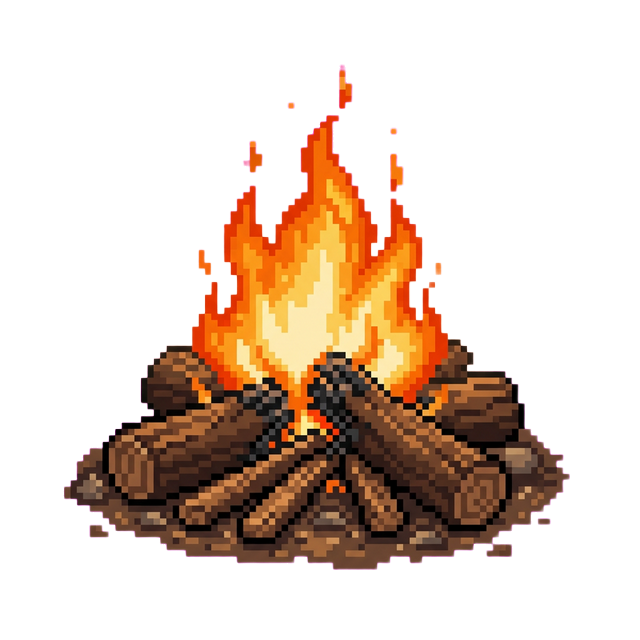
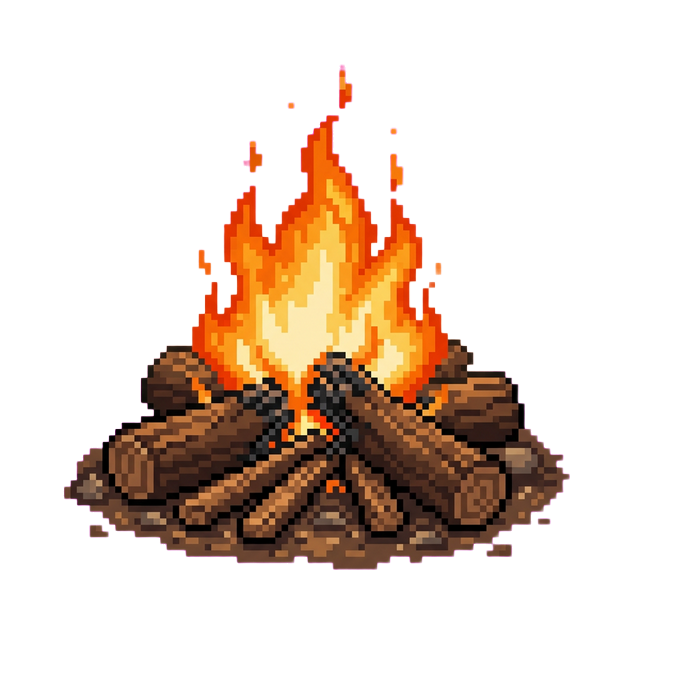
edit

Changed region(s): [[0.0938, 0.0938, 0.9062, 0.9062]]

diff --git a/icefishing/npcs.js b/icefishing/npcs.js
@@ -47,38 +47,43 @@ const NPCs = {
 
                 const distToPlayer = Math.abs(npc.x - Player.x);
 
-                // Check light avoidance unless blood moon or aggroed
-                let avoidsLight = !isBloodMoon && !npc.aggro;
                 let lightDir = 0;
+                let nearestLight = null;
+                let minLightDist = 300; // Light radius to avoid
 
-                if (avoidsLight) {
-                    // Find nearest light (fire or lit torch)
-                    let nearestLight = null;
-                    let minLightDist = 300; // Light radius to avoid
+                for (const fire of World.campfires) {
+                    if (!fire.lit) continue;
 
-                    for (const fire of World.campfires) {
-                        if (fire.lit && Math.abs(fire.x - npc.x) < minLightDist) {
-                            nearestLight = fire;
-                            minLightDist = Math.abs(fire.x - npc.x);
+                    let avoidThis = !npc.aggro && !isBloodMoon; // Normal behavior
+
+                    // Blue campfire overrides blood moon & aggro
+                    if (fire.isBlue && !npc.immuneToBlue) {
+                        avoidThis = true;
+                    }
+
+                    if (avoidThis && Math.abs(fire.x - npc.x) < minLightDist) {
+                        nearestLight = fire;
+                        minLightDist = Math.abs(fire.x - npc.x);
+                    }
+                }
+
+                if (World.torches) {
+                    for (const torch of World.torches) {
+                        let avoidThis = !npc.aggro && !isBloodMoon;
+                        if (torch.lit && avoidThis && Math.abs(torch.x - npc.x) < minLightDist) {
+                            nearestLight = torch;
+                            minLightDist = Math.abs(torch.x - npc.x);
                         }
                     }
-                    if (World.torches) {
-                        for (const torch of World.torches) {
-                            if (torch.lit && Math.abs(torch.x - npc.x) < minLightDist) {
-                                nearestLight = torch;
-                                minLightDist = Math.abs(torch.x - npc.x);
-                            }
-                        }
-                    }
+                }
 
-                    if (nearestLight) {
-                        lightDir = npc.x > nearestLight.x ? 1 : -1;
-                    }
+                if (nearestLight) {
+                    lightDir = npc.x > nearestLight.x ? 1 : -1;
                 }
 
                 let desiredVx = npc.vx;
 
-                if (avoidsLight && lightDir !== 0) {
+                if (lightDir !== 0) {
                     // Run away from light
                     desiredVx = npc.speed * lightDir;
                 } else if (distToPlayer < 800) { // Chase player if in range
@@ -148,7 +153,7 @@ const NPCs = {
 
                 let desiredVx = 0;
                 if (targetX !== null) {
-                    desiredVx = npc.x < targetX ? npc.speed : -npc.speed;
+                    desiredVx = npc.x < targetX ? npc.speed * 1.2 : -npc.speed * 1.2;
                 }
 
                 if (desiredVx !== 0) {
@@ -260,6 +265,7 @@ const NPCs = {
             facing: 1,
             wanderTimer: 0,
             attackTimer: 0,
+            immuneToBlue: Math.random() < 0.10 + 0.01 * Survival.dayCount, // 10% chance to ignore blue campfire, increase by 1% every day
             aggro: false
         });
     },
@@ -274,7 +280,7 @@ const NPCs = {
             y: World.getSurfaceY(x),
             vx: 0,
             vy: 0,
-            speed: 100, // Reduced speed
+            speed: 110, // Slightly faster than player with slope penalties
             hp: 80, // Heavy
             maxHp: 80,
             facing: 1,

diff --git a/icefishing/crafting.js b/icefishing/crafting.js
@@ -21,10 +21,31 @@ const Crafting = {
                     Game.showMessage("Can't build campfire here!", 1.5);
                     return false;
                 }
-                const fire = World.addCampfire(playerX);
+                const fire = World.addCampfire(playerX, false);
                 if (fire) {
                     fire.lit = false;
                     Game.showMessage("Built Campfire! Light it with Flint & Steel.", 2);
+                    return true;
+                }
+                return false;
+            }
+        },
+        {
+            id: 'campfire_blue',
+            name: 'Blue Campfire',
+            description: 'Unlit. Repels zombies on Blood Moons.',
+            cost: { firewood: 6 },
+            icon: 'campfire_blue_off',
+            onBuild: (playerX) => {
+                const col = World.getColumnAt(playerX);
+                if (!col || col.type === 'water') {
+                    Game.showMessage("Can't build blue campfire here!", 1.5);
+                    return false;
+                }
+                const fire = World.addCampfire(playerX, true); // true = isBlue
+                if (fire) {
+                    fire.lit = false;
+                    Game.showMessage("Built Blue Campfire! Light it with Flint & Steel.", 2);
                     return true;
                 }
                 return false;
@@ -64,11 +85,34 @@ const Crafting = {
                     Game.showMessage("Can't build campfire here!", 1.5);
                     return false;
                 }
-                const fire = World.addCampfire(playerX);
+                const fire = World.addCampfire(playerX, false);
                 if (fire) {
                     fire.lit = true;
                     Inventory.damageItemById('flint_steel', 1);
                     Game.showMessage("Built a Lit Campfire!", 2);
+                    return true;
+                }
+                return false;
+            }
+        },
+        {
+            id: 'campfire_blue_lit',
+            name: 'Lit Blue Campfire',
+            description: 'Use Flint & Steel.',
+            cost: { firewood: 6 },
+            requiresItem: 'flint_steel',
+            icon: 'campfire_blue_on',
+            onBuild: (playerX) => {
+                const col = World.getColumnAt(playerX);
+                if (!col || col.type === 'water') {
+                    Game.showMessage("Can't build blue campfire here!", 1.5);
+                    return false;
+                }
+                const fire = World.addCampfire(playerX, true); // true = isBlue
+                if (fire) {
+                    fire.lit = true;
+                    Inventory.damageItemById('flint_steel', 1);
+                    Game.showMessage("Built a Lit Blue Campfire!", 2);
                     return true;
                 }
                 return false;

diff --git a/icefishing/world.js b/icefishing/world.js
@@ -101,7 +101,7 @@ const World = {
                         y: surfaceY,
                         vx: 0,
                         vy: 0,
-                        speed: 100,
+                        speed: 110,
                         hp: 80,
                         maxHp: 80,
                         facing: 1,
@@ -240,11 +240,11 @@ const World = {
         return false;
     },
 
-    addCampfire(worldX) {
-        const col = this.getColumnAt(worldX);
+    addCampfire(playerX, isBlue = false) {
+        const col = this.getColumnAt(playerX);
         if (!col || col.type === 'water') return false;
         const surfaceY = (col.type === 'ice') ? 0 : col.surfaceY;
-        const fire = { x: worldX, surfaceY, fuel: 100, lit: false };
+        const fire = { x: playerX, surfaceY, fuel: 50, lit: false, permanent: false, isBlue: isBlue };
         this.campfires.push(fire);
         return fire;
     },
@@ -729,7 +729,7 @@ const World = {
     },
 
     renderCampfire(ctx, x, y, fire) {
-        const img = Assets.get('campfire_anim');
+        const img = fire.isBlue ? Assets.get('campfire_blue_anim') : Assets.get('campfire_anim');
 
         if (fire.lit) {
             const t = Date.now() / 100, fl = Math.sin(t) * 3;
@@ -756,7 +756,7 @@ const World = {
             for (let i = 0; i < 3; i++) ctx.fillRect(x + Math.sin(t + i * 2) * 6, y - 20 - Math.abs(Math.sin(t * 1.5 + i)) * 15, 2, 2);
         } else {
             // Unlit campfire
-            const imgOff = Assets.get('campfire_off');
+            const imgOff = fire.isBlue ? Assets.get('campfire_blue_off') : Assets.get('campfire_off');
             if (imgOff) {
                 ctx.drawImage(imgOff, x - 24, y - 48, 48, 48);
             } else if (img) {

diff --git a/icefishing/survival.js b/icefishing/survival.js
@@ -23,8 +23,8 @@ const Survival = {
     messages: [],
 
     init() {
-        this.timeOfDay = 0.0; // Start in morning
-        this.dayCount = 3;
+        this.timeOfDay = 0.18; // Start in morning
+        this.dayCount = 1;
         this.stormActive = false;
         this.stormTimer = 0;
         this.stormCooldown = 60 + Math.random() * 40;
@@ -171,7 +171,7 @@ const Survival = {
                     y: World.getSurfaceY(pbe.x),
                     vx: 0,
                     vy: 0,
-                    speed: 60,
+                    speed: 110,
                     hp: 80,
                     maxHp: 80,
                     facing: 1,
@@ -863,8 +863,13 @@ const Survival = {
             if (sx < -100 || sx > canvasW + 100) continue;
 
             const glowGrad = ctx.createRadialGradient(sx, sy - 15, 5, sx, sy - 15, 100);
-            glowGrad.addColorStop(0, `rgba(255,180,60,${0.15 * nightAlpha})`);
-            glowGrad.addColorStop(1, 'rgba(255,100,0,0)');
+            if (fire.isBlue) {
+                glowGrad.addColorStop(0, `rgba(60,180,255,${0.15 * nightAlpha})`);
+                glowGrad.addColorStop(1, 'rgba(0,100,255,0)');
+            } else {
+                glowGrad.addColorStop(0, `rgba(255,180,60,${0.15 * nightAlpha})`);
+                glowGrad.addColorStop(1, 'rgba(255,100,0,0)');
+            }
             ctx.globalCompositeOperation = 'lighter';
             ctx.fillStyle = glowGrad;
             ctx.fillRect(sx - 120, sy - 120, 240, 200);

diff --git a/icefishing/inventory.js b/icefishing/inventory.js
@@ -59,6 +59,8 @@ const Inventory = {
         raw_fish_large: { id: 'raw_fish_large', name: 'Large Raw Fish', stackable: true, maxStack: 5, usable: true, category: 'food', cost: { money: 25 } },
         cooked_fish_large: { id: 'cooked_fish_large', name: 'Large Cooked Fish', stackable: true, maxStack: 5, usable: true, category: 'food', cost: { money: 35 } },
         torch: { id: 'torch', name: 'Torch', stackable: false, maxStack: 1, usable: true, category: 'tool', cost: { money: 15 }, maxDurability: 100, lit: false },
+        campfire_blue: { id: 'campfire_blue', name: 'Blue Campfire', stackable: false, maxStack: 1, usable: true, category: 'building', cost: { firewood: 5 } },
+        campfire_blue_lit: { id: 'campfire_blue_lit', name: 'Lit Blue Campfire', stackable: false, maxStack: 1, usable: true, category: 'building', cost: { firewood: 5 } },
         shovel: { id: 'shovel', name: 'Shovel', stackable: false, maxStack: 1, usable: true, category: 'tool', cost: { money: 50 }, maxDurability: 50 },
         simple_bridge: { id: 'simple_bridge', name: 'Simple Bridge', stackable: true, maxStack: 10, usable: true, category: 'building', cost: { money: 20 } },
         fish_egg: { id: 'fish_egg', name: 'Fish Egg', stackable: true, maxStack: 10, usable: false, category: 'material', cost: { money: 10 } },

diff --git a/icefishing/assets.js b/icefishing/assets.js
@@ -8,6 +8,9 @@ const Assets = {
         { name: 'campfire_anim', src: 'assets/campfire_anim.png' },
         { name: 'campfire_on', src: 'assets/campfire_on.png' },
         { name: 'campfire_off', src: 'assets/campfire_off.png' },
+        { name: 'campfire_blue_anim', src: 'assets/campfire_blue_anim.png' },
+        { name: 'campfire_blue_on', src: 'assets/campfire_blue_on.png' },
+        { name: 'campfire_blue_off', src: 'assets/campfire_blue_off.png' },
         { name: 'shop', src: 'assets/shop.png' },
         { name: 'repair_shop', src: 'assets/repair_shop.png' },
         { name: 'axe', src: 'assets/item_axe.png' },

diff --git a/icefishing/game.js b/icefishing/game.js
@@ -805,7 +805,12 @@ const Game = {
             const sy = baseY - fire.surfaceY;
             // Cull: skip if too far off-screen
             if (sx < -430 || sx > this.width + 430) continue;
-            Lighting.addLight(sx, sy - 15, 400, 1.0, 0.65, 0.25, 0.9);
+
+            if (fire.isBlue) {
+                Lighting.addLight(sx, sy - 15, 400, 0.3, 0.7, 1.0, 0.9);
+            } else {
+                Lighting.addLight(sx, sy - 15, 400, 1.0, 0.65, 0.25, 0.9);
+            }
         }
 
         // --- Ground torch lights (culled to on-screen) ---
